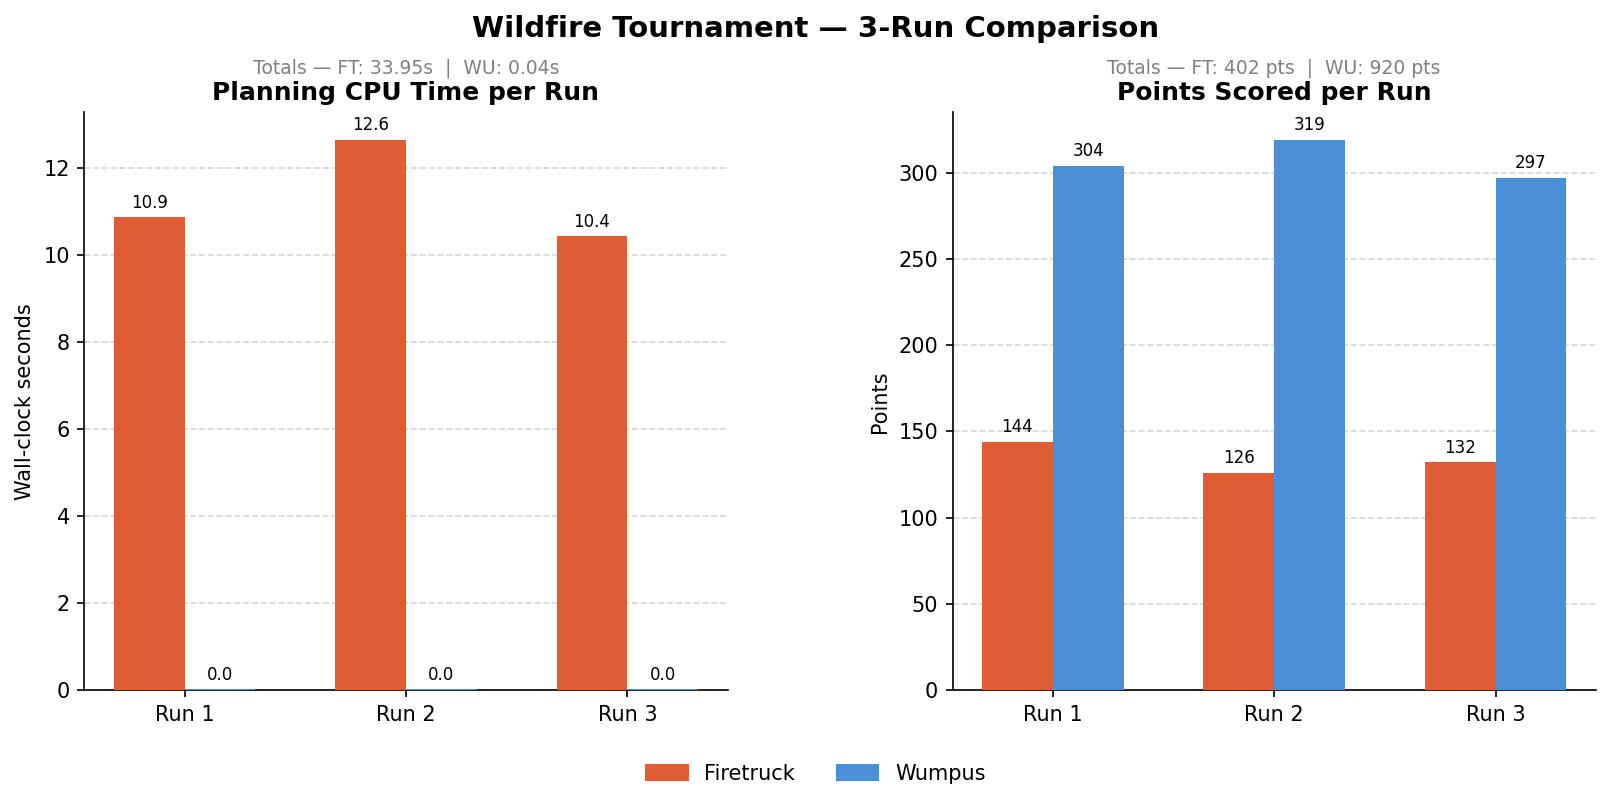
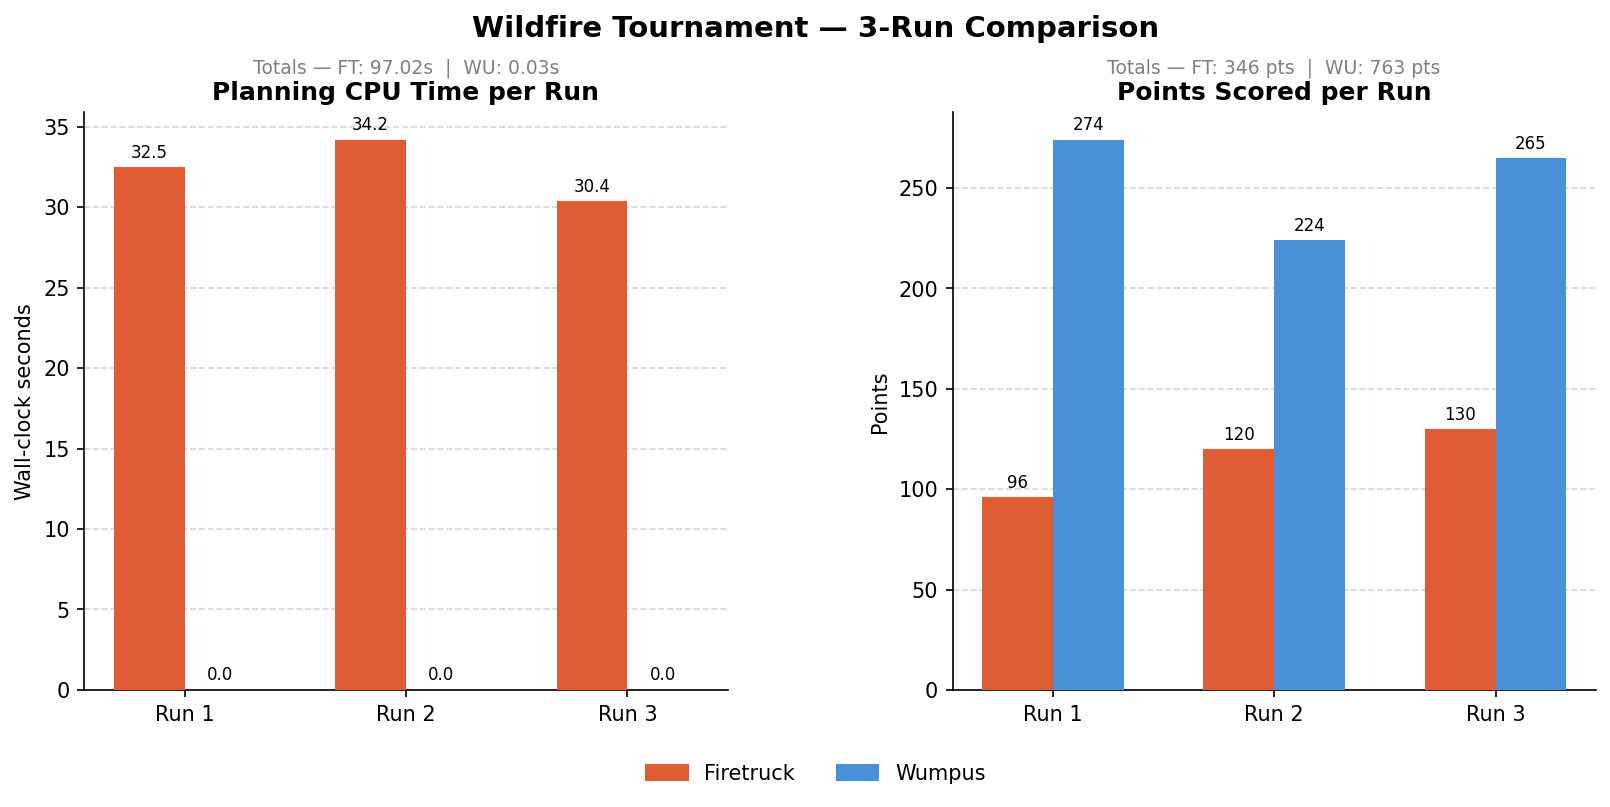
FIX WUMPUS :(

diff --git a/Wildfire/pathSimulator.py b/Wildfire/pathSimulator.py
@@ -45,7 +45,7 @@ import math
 import threading
 import time
 from collections import deque
-from typing import Deque, List, Optional, Set, Tuple
+from typing import Deque, List, Optional, Set, Tuple, Dict
 from dataclasses import dataclass
 
 from Map_Generator import Map, Status
@@ -237,18 +237,37 @@ class SimulationEngine:
     def get_stats(self, run_index: int = 0) -> RunResult:
         """
         Collect end-of-run statistics into a RunResult.
-        Safe to call at any time; does not modify engine state.
+ 
+        Scoring uses self._firetruck_extinguished (the live counter) for
+        firetruck_points, NOT the map-scan EXTINGUISHED count.  The map
+        scan is used only for the informational extinguished field so the
+        summary can cross-check the two values.
+ 
+        If _firetruck_extinguished != counts["EXTINGUISHED"] at end of run,
+        a warning is printed — this would indicate a counting bug.
         """
-        counts: dict[str, int] = {s.name: 0 for s in Status}
+        counts: Dict[str, int] = {s.name: 0 for s in Status}
         for data in self.map.obstacle_coordinate_dict.values():
             counts[data["status"].name] += 1
  
-        extinguished  = counts["EXTINGUISHED"]
-        burned        = counts["BURNED"]
-        fires_started = self._wumpus_fires_started
+        map_extinguished = counts["EXTINGUISHED"]
+        burned           = counts["BURNED"]
+        fires_started    = self._wumpus_fires_started
  
-        ft_pts = self._firetruck_extinguished * 2
-        wu_pts = fires_started + burned
+        # Use the live counter for scoring — it tracks every extinguish call
+        # made by the engine regardless of timing.
+        ft_counter = self._firetruck_extinguished
+        if ft_counter != map_extinguished:
+            print(
+                f"[Engine] WARNING: _firetruck_extinguished={ft_counter} "
+                f"but map EXTINGUISHED count={map_extinguished}. "
+                f"Using live counter for scoring."
+            )
+ 
+        # Read CPU totals under lock to avoid torn-float reads
+        with self._timer_lock:
+            ft_cpu = self.firetruck_cpu_time
+            wu_cpu = self.wumpus_cpu_time
  
         return RunResult(
             run_index          = run_index,
@@ -256,13 +275,13 @@ class SimulationEngine:
             sim_time           = round(self.map.sim_time, 1),
             intact             = counts["INTACT"],
             burned             = burned,
-            extinguished       = extinguished,
+            extinguished       = map_extinguished,   # for display / cross-check
             still_burning      = counts["BURNING"],
-            firetruck_points   = ft_pts,
-            wumpus_points      = wu_pts,
+            firetruck_points   = ft_counter * 2,     # live counter × 2
+            wumpus_points      = fires_started + burned,
             fires_started      = fires_started,
-            firetruck_cpu_time = self.firetruck_cpu_time,
-            wumpus_cpu_time    = self.wumpus_cpu_time,
+            firetruck_cpu_time = ft_cpu,
+            wumpus_cpu_time    = wu_cpu,
         )
 
     # =======================================================================
